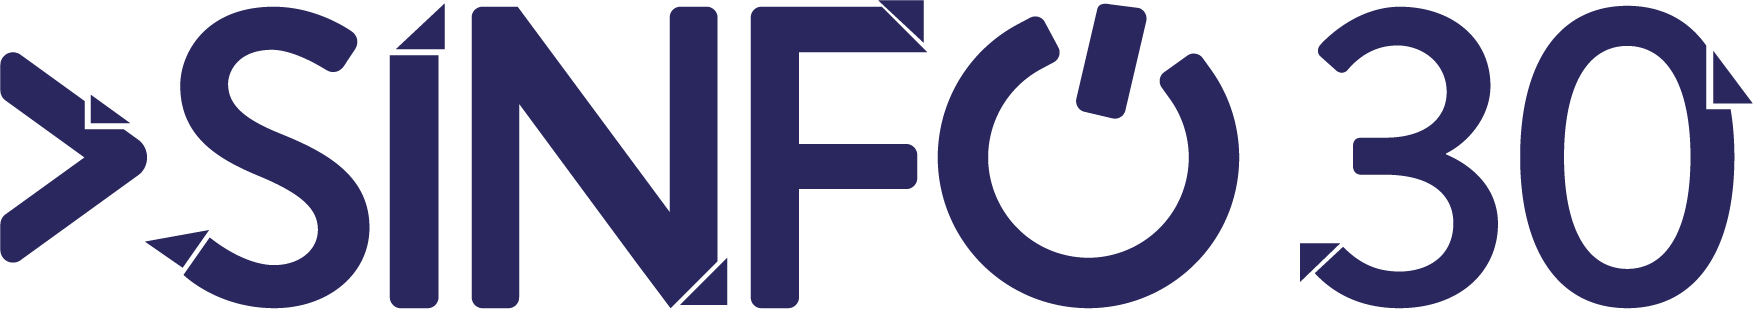
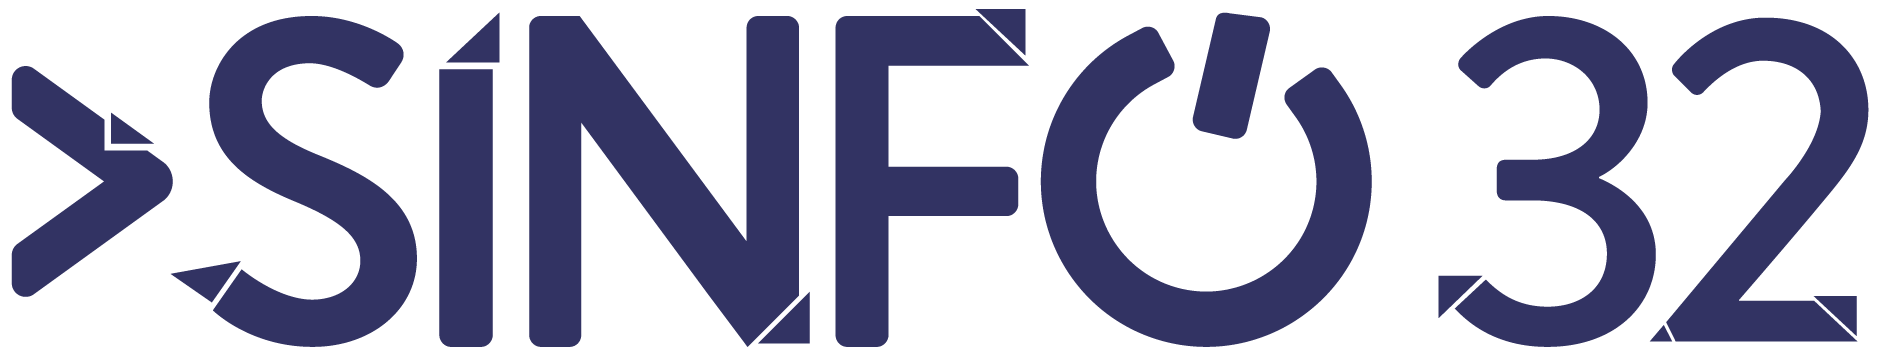
Update NEIIST website information (#363)
* chore: Update SINFO logo and edition number
* chore: Update NEIIST contacts page (new room)

diff --git a/client/src/pages/ContactsPage.jsx b/client/src/pages/ContactsPage.jsx
@@ -36,9 +36,9 @@ const ContactsPage = () => (
 			>
 				<Col md={5} lg={4} xl={3} style={{ margin: "0.5rem" }}>
 					<p>
-						Sala de Estudo, Sala 0.04
+						Sala 3.03
 						<br />
-						Pavilhão de Informática 2
+						Pavilhão de Informática I
 						<br />
 						Campus Alameda
 						<br />

diff --git a/client/src/components/Footer.jsx b/client/src/components/Footer.jsx
@@ -91,7 +91,7 @@ const Links = () => (
         <div><Link to="/estudantes"><p>Estudantes</p></Link></div>
         <div>
           <a href="https://sinfo.org" target="_blank">
-            <p>SINFO 30</p>
+            <p>SINFO 32</p>
           </a>
         </div>
       </div>
